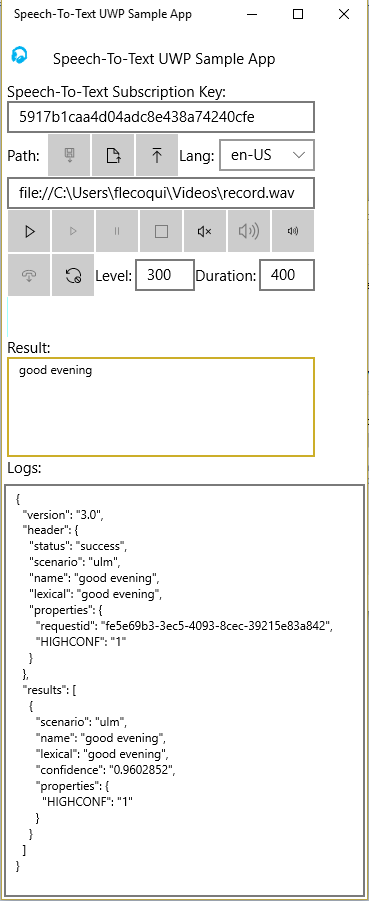
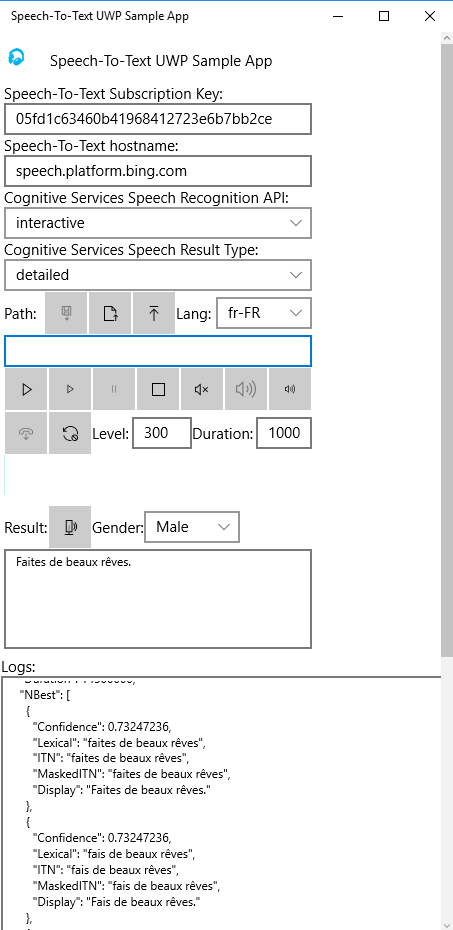
Update doc

diff --git a/Samples/SpeechToTextUWPSampleApp/README.md b/Samples/SpeechToTextUWPSampleApp/README.md
@@ -3,17 +3,18 @@
   samplefwlink: http://go.microsoft.com/fwlink/p/?LinkId=620563&clcid=0x409
 --->
 
-# Speech-To-Text UWP Sample Application
+# Speech-To-Text and Text-To-Speech UWP Sample Application
 
 Overview
 --------------
-This Speech-To-Text UWP Sample Application  can:
+This Speech-To-Text and Text-To-Speech UWP Sample Application  can:
 
 - **Record**: record spoken audio into a WAV file, 
 - **Play**: play the WAV files stored on the local disk,
 - **Convert WAV file**: Convert the WAV file to text with Cognitive Services,
 - **Convert live audio**: Convert live audio to text with Cognitive Services, the audio buffer is sent to Cogntive Services at the end of the recording session.
 - **Convert continuously live audio**: Convert continuously live audio to text with Cognitive Services, in that case, the audio buffers are sent to Cognitive Services if the audio level is sufficient during a configurable period.
+- **Convert Text**: Convert a text into a WAV stream associated with the current language,
 
 The spoken audio is recorded into a WAV file in the following format:
 
@@ -116,12 +117,21 @@ Once the application is playing an audio file it's possible to switch off the au
 ![](https://raw.githubusercontent.com/flecoqui/Windows10/master/Samples/SpeechToTextUWPSampleApp/Docs/audio.png)
 
 
-### Converting Spoken Audio WAV file to Text
+### Converting Spoken Audio WAV file to Text (SpeechToText)
 With the application, you can convert to text the WAV file you have just recorded. 
 First, check the path of the your audio file is correct in the Path Edit box,
 then select the language in the "Language" Combo Box: 
 
 ![](https://raw.githubusercontent.com/flecoqui/Windows10/master/Samples/SpeechToTextUWPSampleApp/Docs/language.png)
+
+You can select the conversation model: interactive, conversation, dictation with "Cognitive Services Speech Recognition API"  Combo Box: 
+
+![](https://raw.githubusercontent.com/flecoqui/Windows10/master/Samples/SpeechToTextUWPSampleApp/Docs/mode.png)
+
+You can also select the result type: simle or detailed  with "Cognitive Services Speech Result type"  Combo Box: 
+
+![](https://raw.githubusercontent.com/flecoqui/Windows10/master/Samples/SpeechToTextUWPSampleApp/Docs/resulttype.png)
+
 
 Finally click on the button "Upload" to upload the file towards the Cognitive Services.
 
@@ -131,7 +141,7 @@ Once the file is uploaded, after less than one second, the result is displayed i
 
 ![](https://raw.githubusercontent.com/flecoqui/Windows10/master/Samples/SpeechToTextUWPSampleApp/Docs/result.png)
 
-### Converting Live Spoken Audio to Text
+### Converting Live Spoken Audio to Text (SpeechToText)
 You can also directly convert the live Spoken Audio to text. 
 First, select the language in the "Language" Combo Box: 
 
@@ -195,6 +205,25 @@ Moreover, if the application is suspended, the continuous recording is stopped. 
 IF you want to stop the continuous recording click on the same button:
 
 ![](https://raw.githubusercontent.com/flecoqui/Windows10/master/Samples/SpeechToTextUWPSampleApp/Docs/stopcontinuousrecord.png) 
+
+### Converting text to speech  (TextToSpeech)
+With the application, you can also convert a text into speech . 
+First, enter your text in the Result text box, 
+then select the language in the "Language" Combo Box: 
+
+![](https://raw.githubusercontent.com/flecoqui/Windows10/master/Samples/SpeechToTextUWPSampleApp/Docs/language.png)
+
+You can select the speech gender Male or Female with the "Gender" Combo Box:  
+
+![](https://raw.githubusercontent.com/flecoqui/Windows10/master/Samples/SpeechToTextUWPSampleApp/Docs/texttospeech.png)
+
+Then click on the TextToSpeech button to get the WAV stream associated with the text and the current language:  
+
+![](https://raw.githubusercontent.com/flecoqui/Windows10/master/Samples/SpeechToTextUWPSampleApp/Docs/texttospeechbutton.png)
+
+
+
+
 
 
 Building the application
